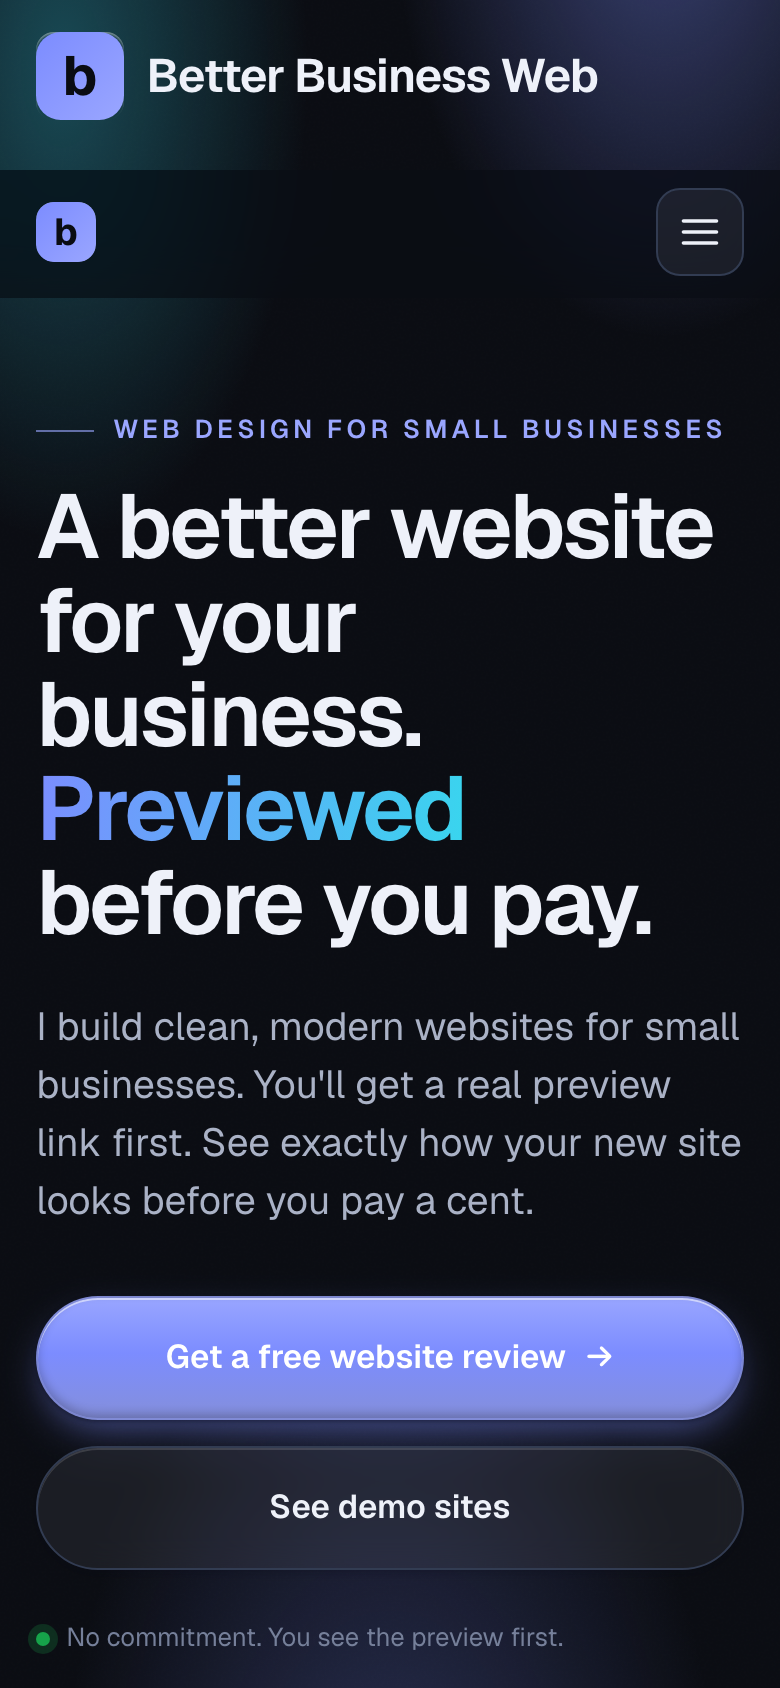
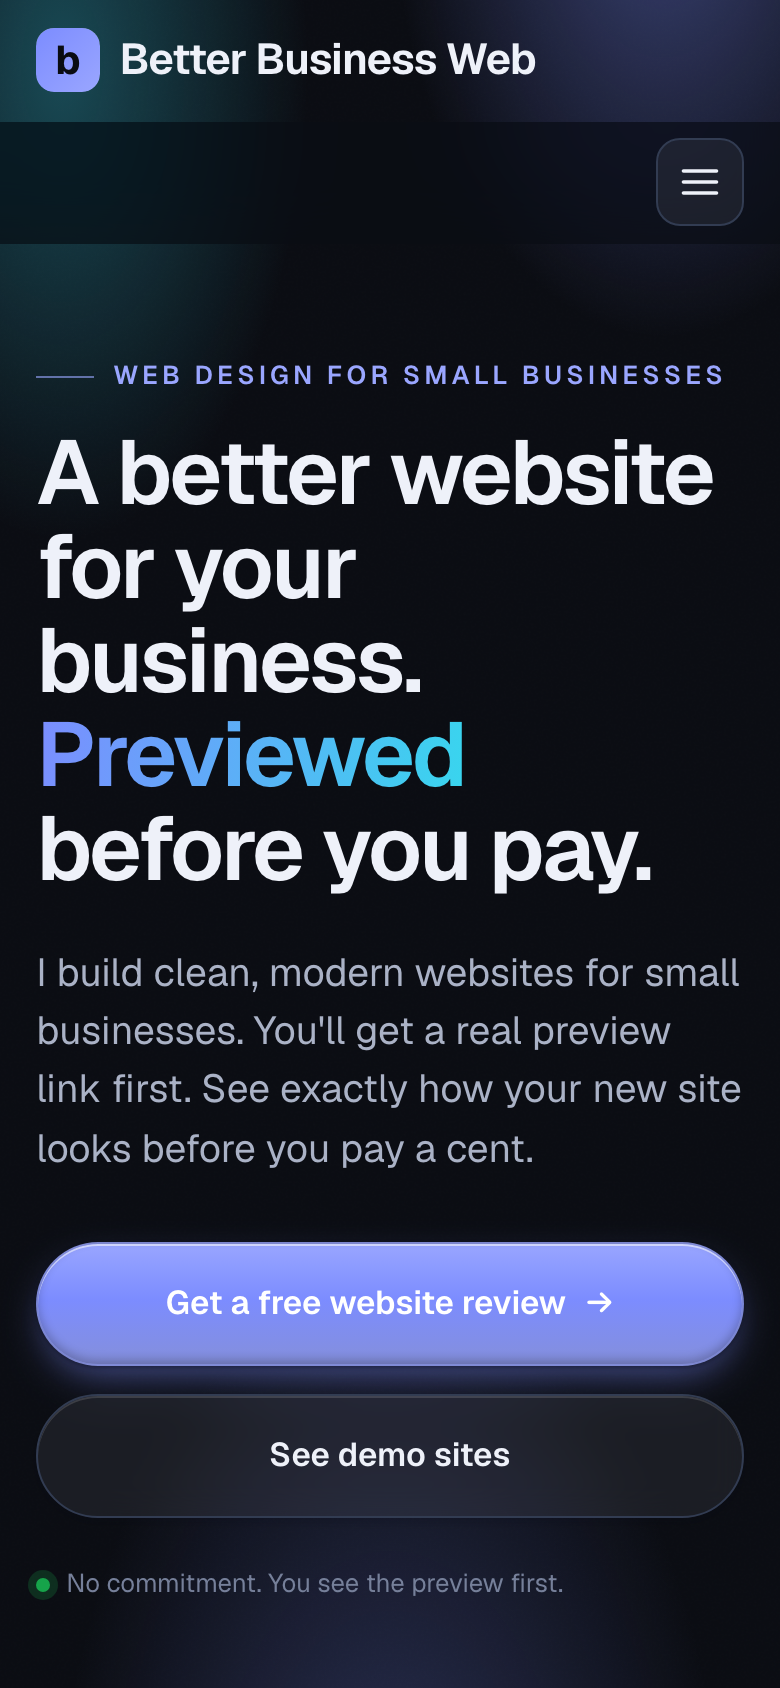
feat(bbw): make the brand mark a single fixed top-left element + enlarge nav font
Replace the per-bar b-marks (banner mark + nav fade-in mark) with ONE position:
fixed mark pinned to the top-left corner that never moves. The banner and the
stuck nav each reserve an equal-width slot, so the same mark appears to live in
both while only the wordmark / links scroll past it — verified the mark holds
Δx=0.00 / Δy=0.00 across scroll and aligns to the nav's left slot (Δ=0.00px).

The banner is now a slim strip (nav-height) holding just the wordmark; the nav's
sentinel/IO now drives only the faint stuck shadow. Bumped nav link size from
--step--1 to --step-1 (a lot larger, per request) with wider gaps. Dropped the
now-unused BrandMark import from SiteNav and the b-mark fade CSS.

Changed region(s): [[0.0308, 0.2156, 0.9538, 0.9858], [0.0, 0.0, 0.9538, 0.1848]]

diff --git a/products/better-business-web/site/src/styles/global.css b/products/better-business-web/site/src/styles/global.css
@@ -47,7 +47,9 @@
   --radius-lg: 22px;
   --radius-xl: 30px;
   --container: 1180px;
-  --nav-h: 57px;
+  --nav-h: 60px;
+  --brand-icon-size: 32px;
+  --brand-gap: 0.6rem;
 
   /* Layered, warm-tinted elevation */
   --shadow-sm: 0 1px 2px rgba(33, 27, 21, 0.07);
